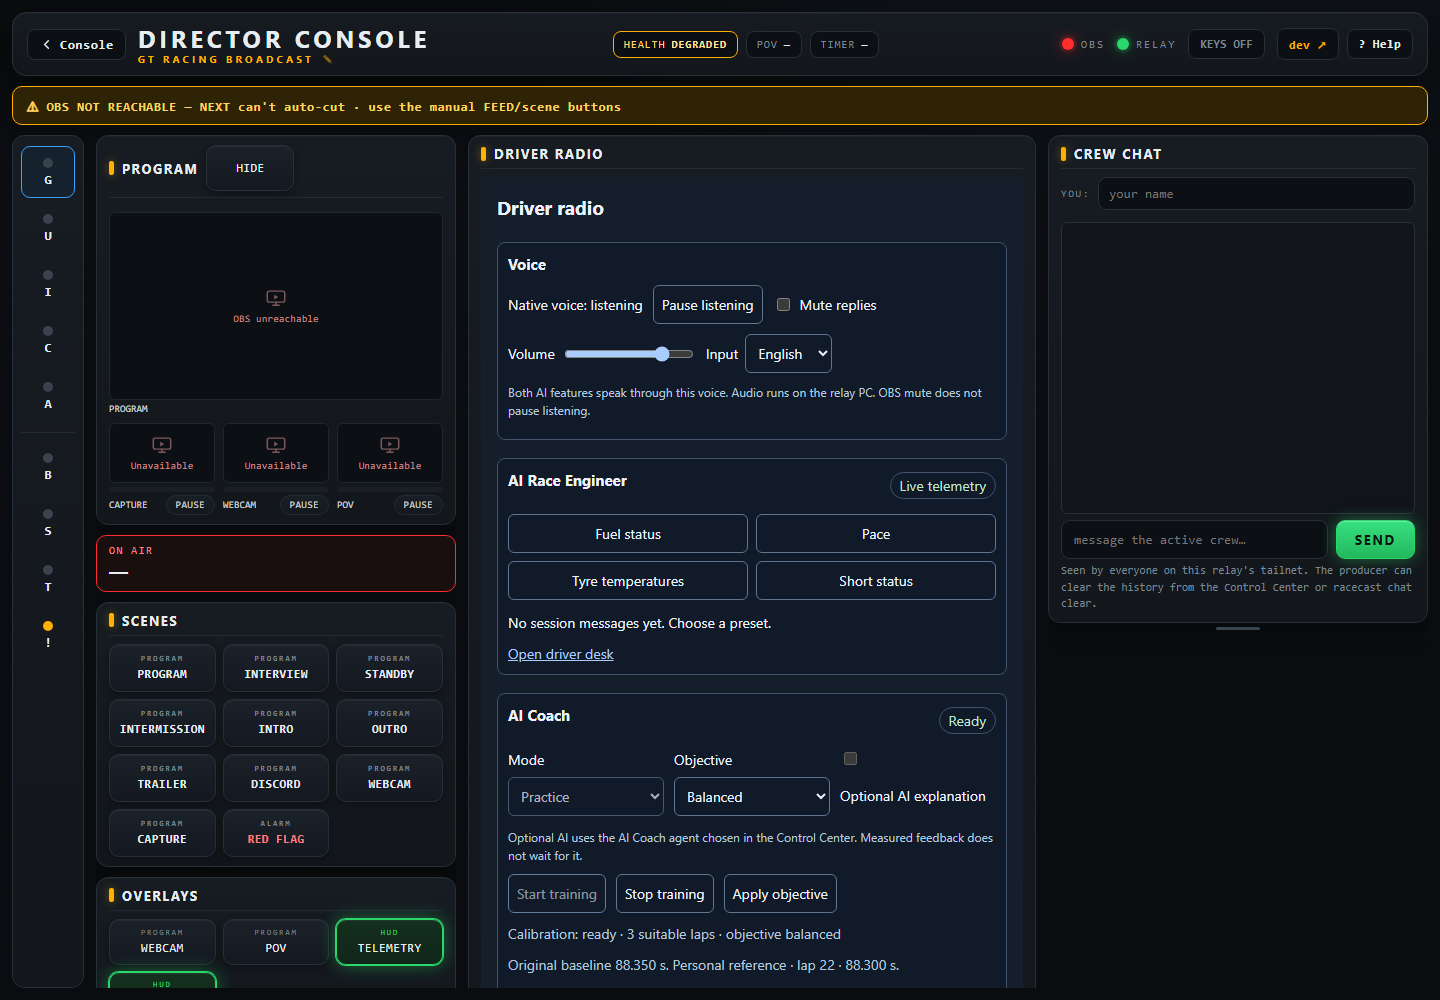
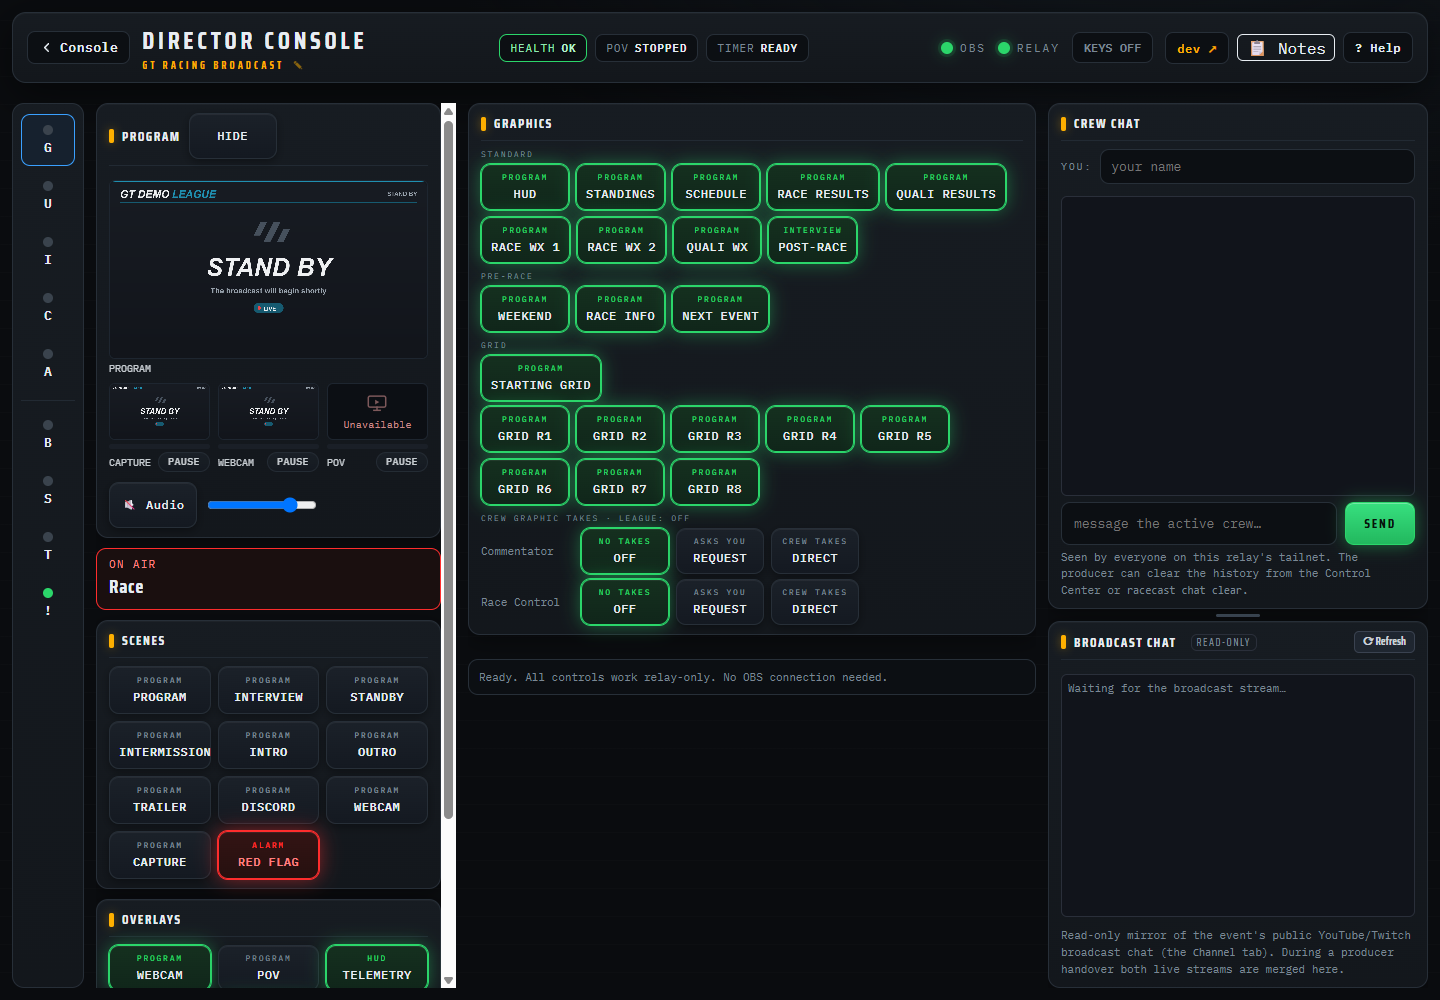
refactor(director): remove the driver radio card from the Director Panel
The Control Center holds the AI Race Engineer, AI Coach and Voice controls,
the driver reads the text on the Console driver desk, the broadcast shows the
HUD slots and the crew uses the Race Engineer desk, so the Solo POV panel card
was redundant. Drop the card, its script and CSS, the relay's panel-only
__RC_RADIO_ACCESS__ substitution, the browser-check panel views, and update
the docs and the Solo POV panel screenshot. The .bus[hidden] rule stays (it
still hides the empty graphics-request list).

diff --git a/src/director/director-panel.html b/src/director/director-panel.html
@@ -127,7 +127,6 @@
     border-radius:12px;padding:9px 12px;margin-bottom:12px;
     box-shadow:0 6px 20px rgba(0,0,0,.35), inset 0 1px 0 rgba(255,255,255,.03)}
   .bus[hidden]{display:none}   /* .bus's display:flex above beats the UA [hidden] rule */
-  #radio-entry a{color:var(--ink)}   /* the signed-out driver radio entry, not a browser-default link */
   .bus .cap{flex:0 0 auto;font-family:var(--head);font-weight:700;letter-spacing:.12em;font-size:13px;
     color:var(--ink);text-transform:uppercase;display:flex;align-items:center;gap:8px;
     padding:0 0 6px;border-bottom:1px solid #222a33}
@@ -786,7 +785,6 @@
     </section>
     <main id="workspace">
       <div class="nextstep" id="nextStep" hidden><span class="nslbl">Next step</span><span id="nextStepText"></span></div>
-      <section class="bus" id="driver-radio-card" hidden><div class="cap">Driver radio</div><div id="radio-entry" class="body"><p>Sign in to Console, then connect driver radio.</p><a href="/console">Open Console sign-in</a> <button type="button" class="k" id="radio-connect">Connect driver radio</button></div><div id="radio-component"></div></section>
       <div class="area" data-area="handover">
         <section class="bus" id="handoverSec"><div class="cap">Handover</div>
           <div class="hocards"><div class="hocard air" id="hoOnAir"></div><div class="hocard" id="hoNext"></div></div>
@@ -2998,8 +2996,6 @@ function applyMode(qualifying){
 // card. Endurance reports solo=false and no class is set.
 function applySolo(isSolo, template){
   document.body.classList.toggle("solo", !!isSolo);
-  const radio = document.getElementById('driver-radio-card');
-  if (radio) {radio.hidden = !(isSolo && template === 'pov');window.__radioSolo = !radio.hidden;window.__showRadio?.();}
   const box = $("#urlsBox");
   if (box && isSolo) box.open = true;   // POV lives in the schedule <details>;
                                         // force it open so the POV card shows.
@@ -3874,11 +3870,5 @@ pollCueBacks(); setInterval(pollCueBacks, 2000);
     <button type="button" id="partModalConfirm" onclick="submitPart()" disabled>Confirm</button>
   </div>
 </dialog>
-<script src="/console/driver-radio-ui.js"></script><script>
-window.__radioAllowed = "__RC_RADIO_ACCESS__" === "1";
-function connectDriverRadio(){if(window.radioView)return;document.getElementById('radio-entry').hidden=true;window.radioView=DriverRadio.mount(document.getElementById('radio-component'),{compact:true});}
-document.getElementById('radio-connect').onclick=connectDriverRadio;
-window.__showRadio=()=>{if(window.__radioSolo&&window.__radioAllowed)connectDriverRadio();};window.__showRadio();
-</script>
 </body>
 </html>

diff --git a/tools/coach_browser_check.py b/tools/coach_browser_check.py
@@ -13,7 +13,7 @@ PROFILE={'profile':'solo-pov','subject':'local:producer'}
 
 def check(browser,outdir,shots=None):
     sys.path.insert(0,str(ROOT/'tests'))
-    from test_driver_radio_ui import RadioFixture,console
+    from test_driver_radio_ui import RadioFixture
     import driver_coach_controls as controls
     import e2e_visual as V
     out=Path(outdir);out.mkdir(parents=True,exist_ok=True);results=[]
@@ -159,23 +159,6 @@ def check(browser,outdir,shots=None):
             c.evaluate("(node)=>node.scrollIntoView({block:'start'})")
             shot(cc,'coach-control-center','desktop','cc-telemetry.png')
             apply(cc,c,'#coach-stop',f,'radioAdmin')
-            panel_context=browser.new_context(viewport={'width':1440,'height':1000})
-            panel_context.route('https://fonts.googleapis.com/**',lambda route:route.fulfill(status=200,content_type='text/css',body='/* Offline fixture. */'))
-            try:
-                panel=panel_context.new_page();token=console.m.console_auth.mint_token(console.SECRET,'director')
-                panel.goto(f.url+'/console/panel?t='+token)
-                p=panel.locator('#radio-component');p.locator('#coach-start').wait_for(state='visible')
-                assert p.locator('#coach-skill').is_hidden(),'Compact panel exposed the full review form'
-                sync(panel,f,'radioView');apply(panel,p,'#coach-start',f,'radioView')
-                for n,seconds in ((20,88.5),(21,88.4),(22,88.3),(23,88.4)):
-                    f.practice.complete(n,seconds);f.practice.service.step()
-                sync(panel,f,'radioView');panel.wait_for_function("window.radioView.coach.state?.focus?.focus")
-                assert panel.locator('#driver-radio-card').bounding_box()['y']<900
-                shot(panel,'coach-panel','desktop','director-panel-solo.png')
-                # Views are optional; closing one cannot stop relay-owned training.
-                panel.close()
-                assert f.practice.service.snapshot(PROFILE)['active']
-            finally:panel_context.close()
             assert not errors,errors
             page.close();cc.close()
             results.append(V.SurfaceResult('driver-coach-controls','desktop',None,[],0,None))

diff --git a/tests/test_director_panel.py b/tests/test_director_panel.py
@@ -679,18 +679,23 @@ def t_old_controls_survive_the_frame():
 
 def t_hidden_bus_cards_stay_hidden():
     # `.bus{display:flex}` beats the browser's [hidden] rule, so a card the markup or the
-    # script hides (the Solo-only driver radio card, the empty graphics-request list)
-    # showed on every profile. Every hidden-capable .bus needs an author [hidden] rule.
+    # script hides (the empty graphics-request list) showed on every profile. Every
+    # hidden-capable .bus needs an author [hidden] rule.
     h = _html()
     hidden_bus = re.findall(r'<section class="bus" id="([^"]+)"[^>]*\bhidden\b', h)
-    assert "driver-radio-card" in hidden_bus and "gfxReqSec" in hidden_bus, hidden_bus
+    assert "gfxReqSec" in hidden_bus, hidden_bus
     css = re.sub(r"/\*.*?\*/", "", h[:h.index("</style>")], flags=re.S)
     assert re.search(r"\.bus\[hidden\]\s*\{\s*display\s*:\s*none", css), \
         "a hidden .bus card must not be shown by .bus{display:flex}"
-    entry = h[h.index('id="radio-entry"'):h.index('id="radio-component"')]
-    assert 'class="k" id="radio-connect"' in entry, "the connect button uses the panel button style"
-    assert re.search(r"#radio-entry a\s*\{[^}]*color\s*:\s*var\(--ink\)", css), \
-        "the sign-in link is styled for the dark panel"
+
+
+def t_no_driver_radio_card():
+    # Driver radio lives in the Control Center (controls), the Console driver page (text),
+    # the HUD (broadcast) and the Race Engineer desk (crew); the panel card was redundant.
+    h = _html()
+    assert "driver-radio-card" not in h, "the Director Panel has no driver radio card"
+    assert "driver-radio-ui.js" not in h, "the Director Panel does not load the radio component"
+    assert "__RC_RADIO_ACCESS__" not in h, "the panel needs no radio access placeholder"
 
 
 def t_frame_columns_in_order():

diff --git a/tools/radio_browser_check.py b/tools/radio_browser_check.py
@@ -110,17 +110,12 @@ def check(browser,outdir,shots=None):
             first.set_viewport_size({'width':1440,'height':1000})
             menu=context.new_page();menu.goto(f.url+'/console');menu.get_by_text('Driver radio',exact=True).wait_for()
             shot(menu,'driver-radio-console',wiki='console-driver-radio-launcher.png')
-            # Any signed-in Console subject, here a Director, uses the enabled AI Race Engineer.
             f.f.request('fuel');f.enricher.step('audio')
+            # A Director's Console landing; the Director Panel has no driver radio card.
             panel_context=browser.new_context(viewport={'width':1440,'height':1000})
             panel_context.route('https://fonts.googleapis.com/**',lambda route:route.fulfill(status=200,content_type='text/css',body='/* Offline fixture. */'))
-            panel=panel_context.new_page();token=console.m.console_auth.mint_token(console.SECRET,'director')
-            panel.goto(f.url+'/console/panel?t='+token)
-            panel.locator('#driver-radio-card').wait_for(state='visible')
-            panel.locator('#radio-component').locator('[data-preset=fuel]').wait_for(state='visible')
-            assert panel.locator('#driver-radio-card').bounding_box()['y']<900,'Solo radio card must be in the initial workspace'
-            shot(panel,'driver-radio-panel',wiki='director-panel-solo.png')
-            landing=panel_context.new_page();landing.goto(f.url+'/console')
+            token=console.m.console_auth.mint_token(console.SECRET,'director')
+            landing=panel_context.new_page();landing.goto(f.url+'/console?t='+token)
             landing.get_by_text('Director Panel',exact=True).wait_for()
             shot(landing,'driver-radio-director-console',wiki='console-landing.png')
             cc=context.new_page();cc.goto(f.cc_url)

diff --git a/src/relay/racecast-feeds.py b/src/relay/racecast-feeds.py
@@ -12123,11 +12123,6 @@ def make_handler(relay, panel_path=None, hud_source=None, hud_path=None, assets_
             oauth_flag = b"1" if (discord_client_id and discord_client_secret) else b""
             body = body.replace(b"__RC_OAUTH__", oauth_flag)
             body = body.replace(b"__RC_VERSION__", (app_version or "dev").encode())
-            try:
-                radio_allowed = bool(radio_access and self._console_subject() and radio_page_access())
-            except (driver_radio_access.RadioError, OSError, ValueError):
-                radio_allowed = False
-            body = body.replace(b"__RC_RADIO_ACCESS__", b"1" if radio_allowed else b"0")
             if b"<!--__CREW_FRAME__-->" in body:
                 try:
                     with open(crew_frame_path, "rb") as fh:

diff --git a/src/docs/wiki/Driver-Radio.md b/src/docs/wiki/Driver-Radio.md
@@ -17,7 +17,7 @@ by either switch.
 
 | Output | AI Race Engineer | AI Coach |
 |---|---|---|
-| Text on a second device | **AI Race Engineer** section of the Console driver desk and the Director Panel Solo card: presets, latest answer and its messages | **AI Coach** section of the same views: training controls, focus, review, debrief, private history and its messages |
+| Text on a second device | **AI Race Engineer** section of the Console driver desk: presets, latest answer and its messages | **AI Coach** section of the same desk: training controls, focus, review, debrief, private history and its messages |
 | Audio | Native voice on the relay PC, when the shared **Voice** settings enable it | The same native voice and the same single playback slot |
 | Voice controls | **Voice** row above both sections (pause listening, reply mute, volume, input language), shown while either feature is on | The same row |
 | Control Center | **AI Race Engineer** card (switch and agent) | **AI Coach** card (switch and agent) and **AI Coach training** below the settings |
@@ -34,8 +34,6 @@ and sends each view only the messages of the features that are switched on
 (plus those hints): with the AI Coach alone,
 the desk shows the coach messages and the **Voice** row, and no engineer
 messages; with the AI Race Engineer alone, no coach messages leave the relay.
-
-![Driver radio in the Solo POV Director Panel](images/director-panel-solo.png)
 
 ## HUD slots
 
@@ -88,10 +86,11 @@ archive and producer permissions remain separate.
 
 ![Driver radio setup: AI Race Engineer, AI Coach and Voice cards](images/cc-telemetry.png)
 
-While either feature is on, every signed-in Console shows **Driver radio**. A direct Director Panel visit
-uses the same Console identity. Sign in through Console, then choose **Connect
-driver radio** in the Solo POV card. Existing Director controls keep working when
-radio access is unavailable.
+While either feature is on, every signed-in Console shows **Driver radio**, which
+opens the driver desk. The Director Panel has no driver radio card: the switches and
+the training controls live in the Control Center, the driver reads the text on the
+Console driver desk, the broadcast shows the HUD slots, and the crew follows along on
+the human **Race Engineer** desk.
 
 ![Driver-only Console launcher](images/console-driver-radio-launcher.png)
 

diff --git a/src/docs/design/driver-radio-ui.md b/src/docs/design/driver-radio-ui.md
@@ -1,7 +1,12 @@
 # Driver radio browser controls
 
-Epic #969, delivery #974. One shared component drives the Solo POV Director card
-and the dedicated authenticated driver desk. It never captures or plays audio;
+Epic #969, delivery #974. One shared component drives the dedicated authenticated
+driver desk and the Control Center form. It also drove a compact Solo POV card in
+the Director Panel until 2026-10-31, when that card was removed as redundant: the
+Control Center holds the controls (AI Race Engineer, AI Coach and Voice cards), the
+driver reads the text on the Console driver desk, the broadcast shows the HUD slots
+and the crew uses the human Race Engineer desk. The rows below that name the
+Director card or the direct panel describe the original delivery. It never captures or plays audio;
 the deliberately enabled native relay service owns those lifetimes.
 
 | Requirement | Production path | Positive test | Failure test | Runtime evidence |
@@ -30,7 +35,7 @@ revoked data. Prior validated interpretations remain visible with their messages
 ## Two AI features (epic #1023, issue #1028)
 
 The component shows the AI Race Engineer and the AI Coach as two labelled sections
-in the driver desk and the Director Solo card, and the Control Center form as three
+in the driver desk (and, until 2026-10-31, the Director Solo card), and the Control Center form as three
 cards: AI Race Engineer (switch and agent), AI Coach (switch and agent) and the
 shared Voice. Messages are split by their `source`; a `refusal` (the fixed
 `feature_disabled` hint of a switched-off feature, no engineer data) is labelled
